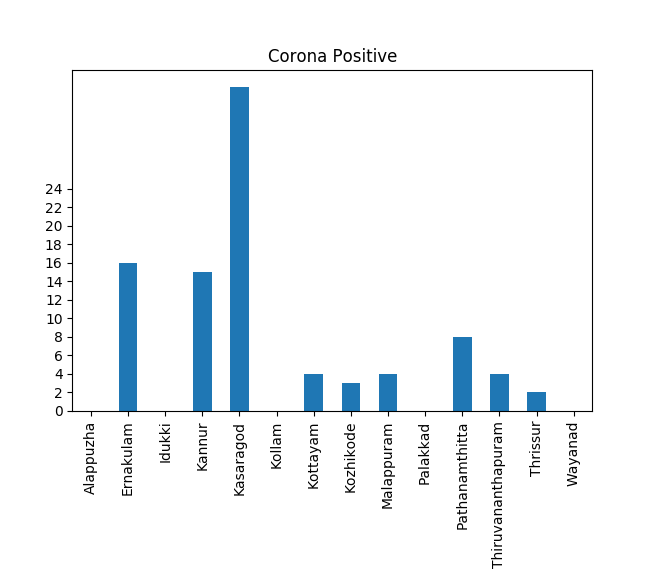
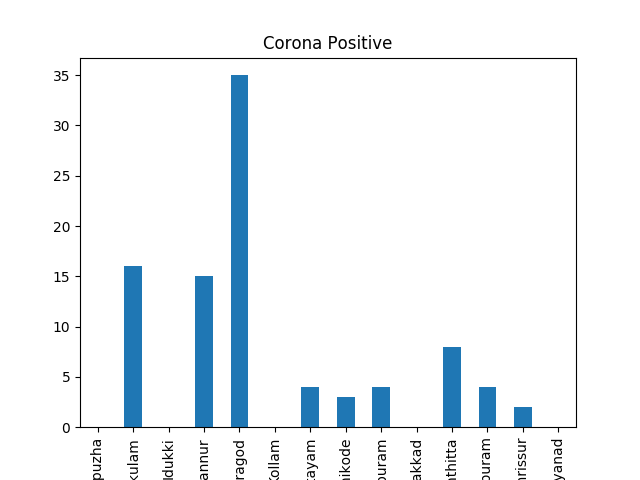
FIXED yticks bug in 'corona positive' plot

diff --git a/2503/script.py b/2503/script.py
@@ -50,7 +50,6 @@ plt.figure()
 df.iloc[:, 2].plot(kind='bar', title='Total Hospitalised')
 
 plt.figure()
-df.iloc[:, 4].plot(kind='bar', yticks=np.arange(
-    0, 25, 2), title='Corona Positive')
+df.iloc[:, 4].plot(kind='bar', title='Corona Positive')
 
 plt.show()
